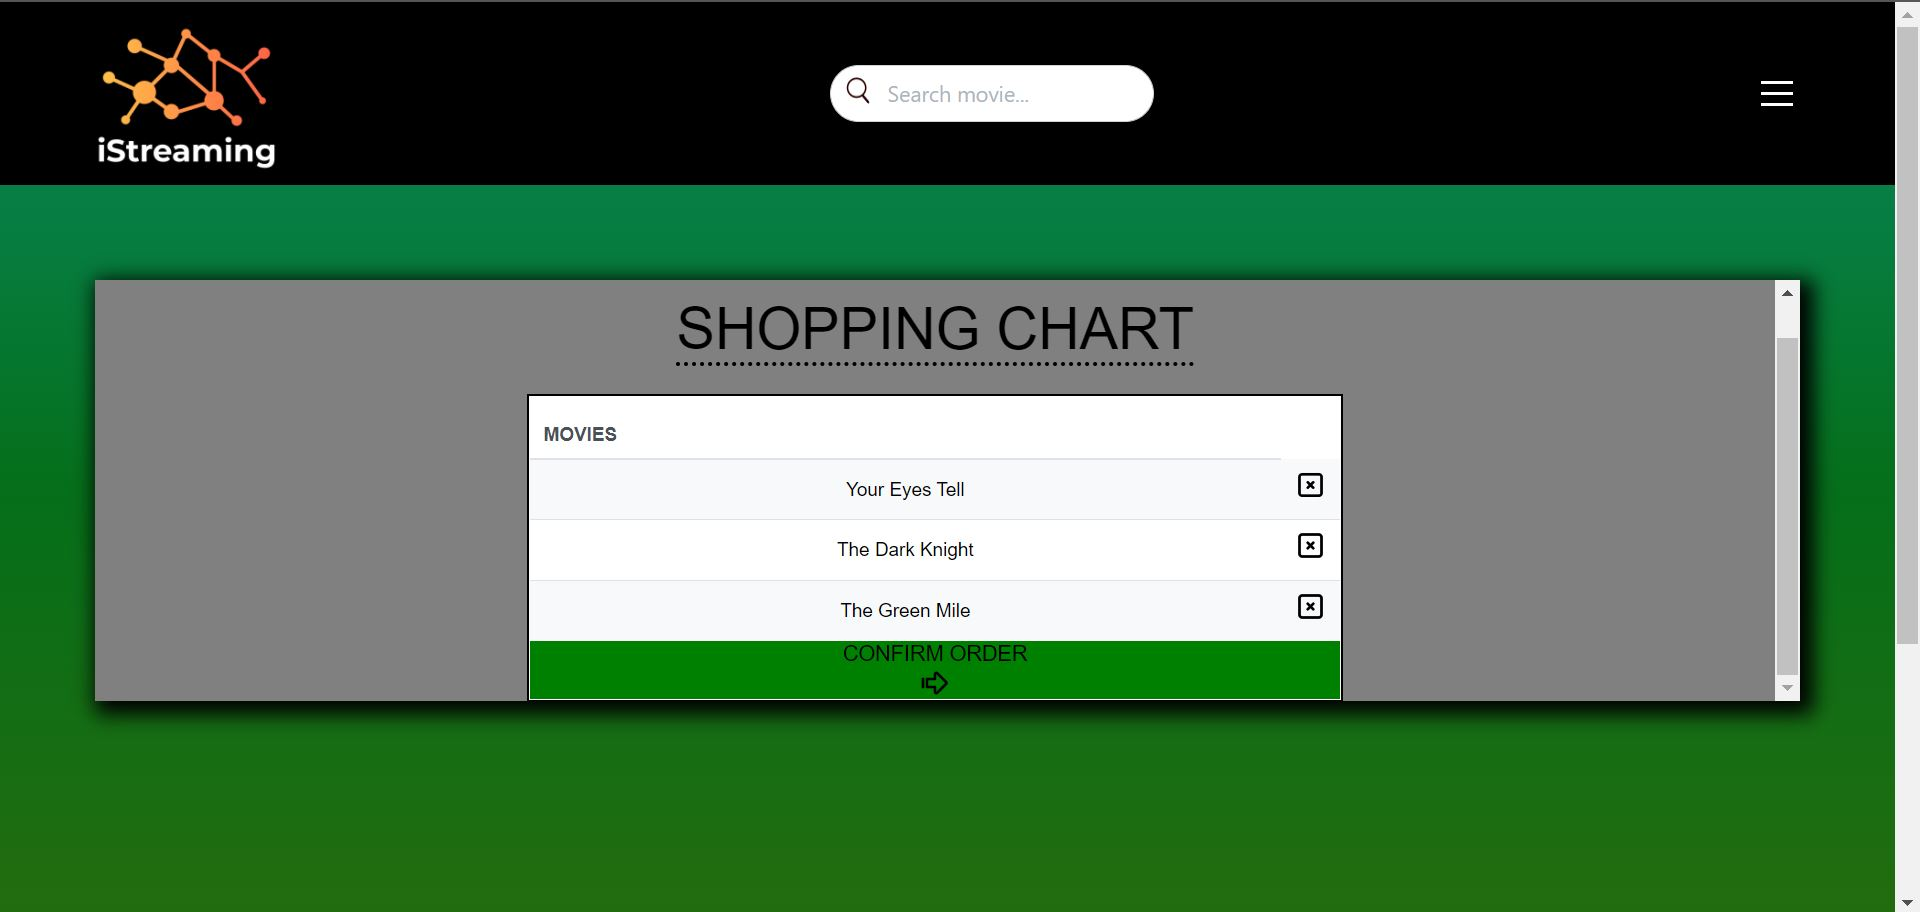
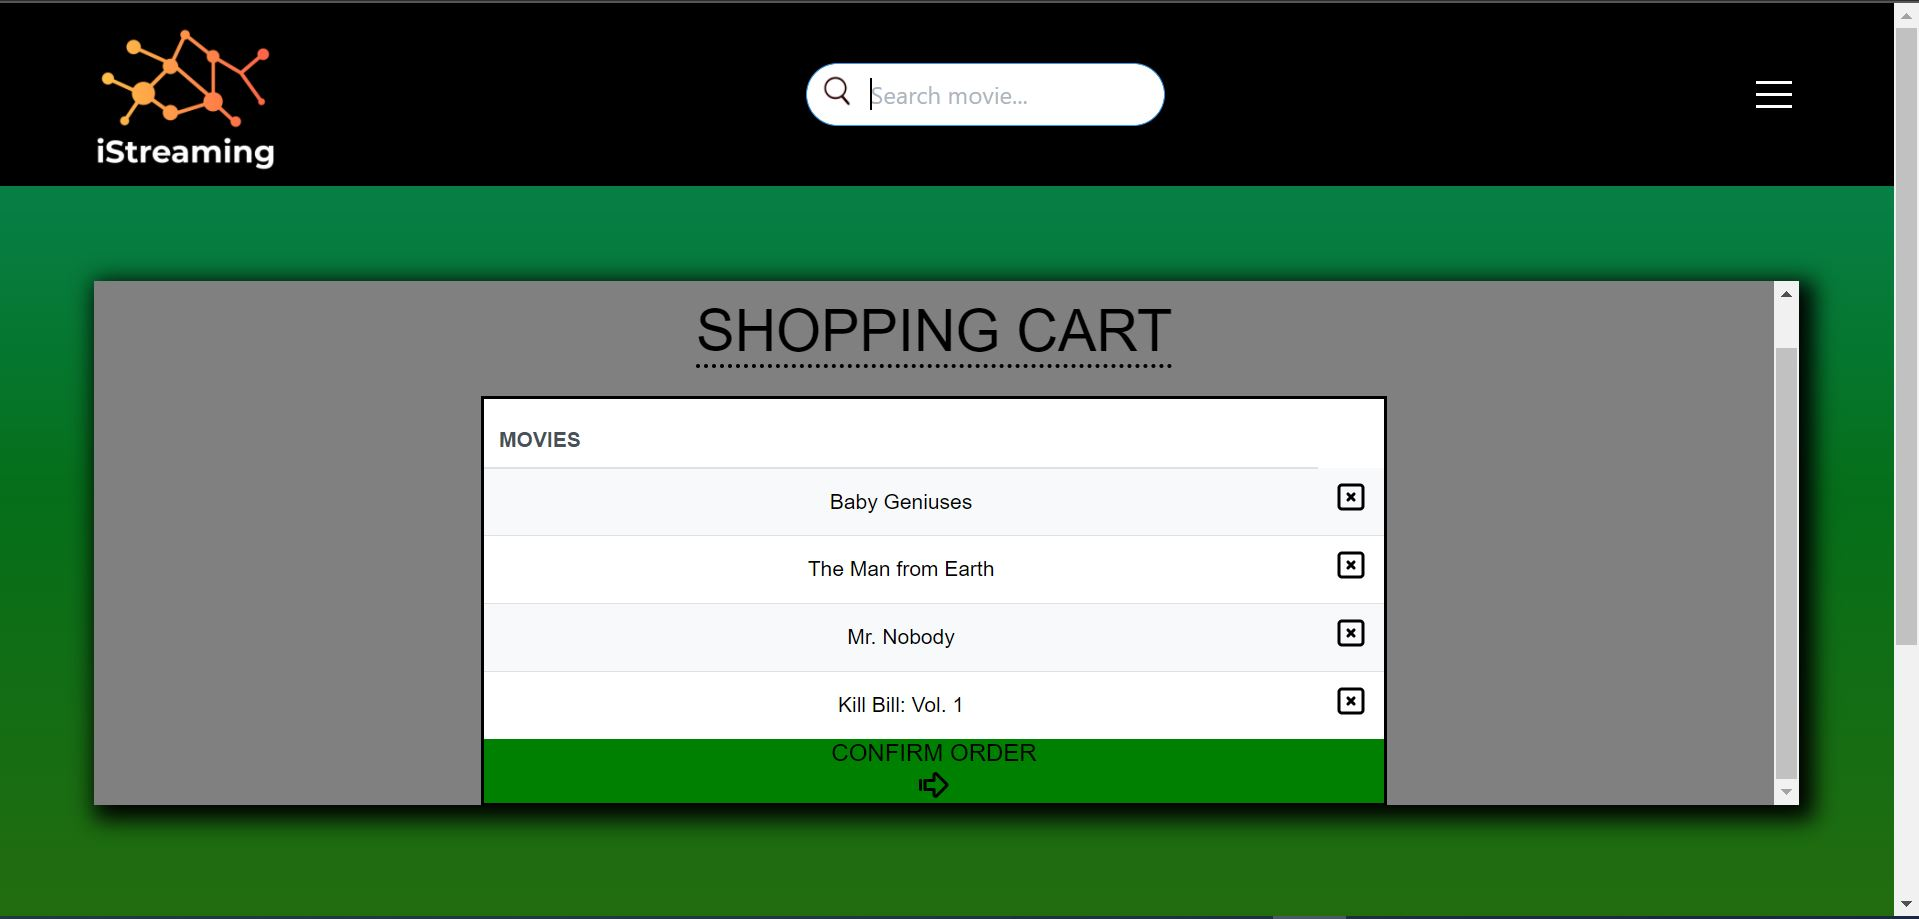
readme edited

diff --git a/README.md b/README.md
@@ -55,13 +55,13 @@ This bar is accessible from the entire application.
 ### Movie Detail
 In this view the specific details of the movie are mapped into different tabs.
 
-![ScreenShot](https://raw.githubusercontent.com/jmonloop/GeekshubsFSD_Pr05_VideoStoreFrontend/dev/src/assets/screenshots/search.jpg)
+![ScreenShot](https://raw.githubusercontent.com/jmonloop/GeekshubsFSD_Pr05_VideoStoreFrontend/dev/src/assets/screenshots/detail.jpg)
 
 An expandable accordion allows additional cast information to be displayed.
 
 At the bottom, a message is shown that user must be logged in for ordering the movie.
 
-![ScreenShot](https://raw.githubusercontent.com/jmonloop/GeekshubsFSD_Pr05_VideoStoreFrontend/dev/src/assets/screenshots/search.jpg)
+![ScreenShot](https://raw.githubusercontent.com/jmonloop/GeekshubsFSD_Pr05_VideoStoreFrontend/dev/src/assets/screenshots/logintoplace.jpg)
 
 And up to here, the views limited to guest user. Now let's see the authentication system.
 
@@ -69,7 +69,7 @@ And up to here, the views limited to guest user. Now let's see the authenticatio
 ### User authentication
 At the right-top, in the header, there is a burger button which shows a modal with user data. Different links are shown depending if the usser is logged or not.
 
-![ScreenShot](https://raw.githubusercontent.com/jmonloop/GeekshubsFSD_Pr05_VideoStoreFrontend/dev/src/assets/screenshots/search.jpg)
+![ScreenShot](https://raw.githubusercontent.com/jmonloop/GeekshubsFSD_Pr05_VideoStoreFrontend/dev/src/assets/screenshots/modal.jpg)
 
 
 Both register and login form have all kinds of security, preventing the execution and warning the user in case of an error.
@@ -130,7 +130,7 @@ In this view is shown all users, movies and orders data and the admin can manage
 ![ScreenShot](https://raw.githubusercontent.com/jmonloop/GeekshubsFSD_Pr05_VideoStoreFrontend/dev/src/assets/screenshots/admin.jpg)
 
 Admin can modify each user profile or delete it from DB
-![ScreenShot](https://raw.githubusercontent.com/jmonloop/GeekshubsFSD_Pr05_VideoStoreFrontend/dev/src/assets/screenshots/adminform.jpg)
+![ScreenShot](https://raw.githubusercontent.com/jmonloop/GeekshubsFSD_Pr05_VideoStoreFrontend/dev/src/assets/screenshots/adminform.JPG)
 
 
 
@@ -140,7 +140,8 @@ Admin can modify each user profile or delete it from DB
 * <a href='https://es.redux.js.org/'>Redux</a> has been used for credentials management and binding sibling components data.
 * <a href='https://es.redux.js.org/'>Mantine</a> library has been used for several components like modals and forms. Although custom styles have been applied to them.
 * <a href='https://styled-components.com/'>Styled-components</a> have been used in most part of the styles. It has been a first approach for me but I will continue implementing them in future projects.
-* Different libraries for small details like <a href='https://geekflare.com/es/lodash-functions-for-javascript-developers/'>lodash</a> (for sticky header), <a href='https://momentjs.com/'>moment</a> (for orders date management) or <a href='https://tabler-icons-react.vercel.app/'>tabler-icons</a> (for chart icons)
+* Different libraries for small details like <a href='https://geekflare.com/es/lodash-functions-for-javascript-developers/'>lodash</a> (for sticky header), <a href='https://momentjs.com/'>moment</a> (for orders date management) or <a href='https://tabler-icons-react.vercel.app/'>tabler-icons</a> (for cart icons)
+* The project is <a href='https://dev.dkd1mdb9vgabn.amplifyapp.com/'>deployed</a> deployed with AWS Amplify.
 
 
 ## New Features Coming Soon
